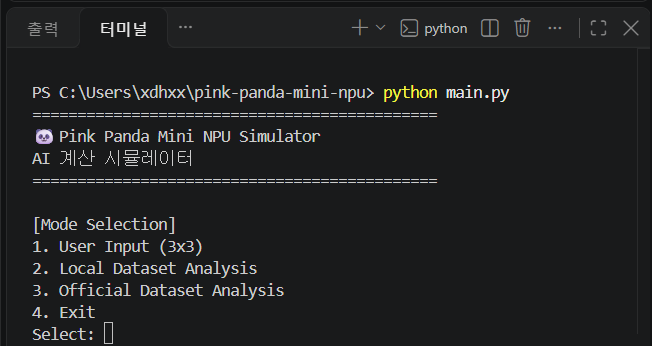
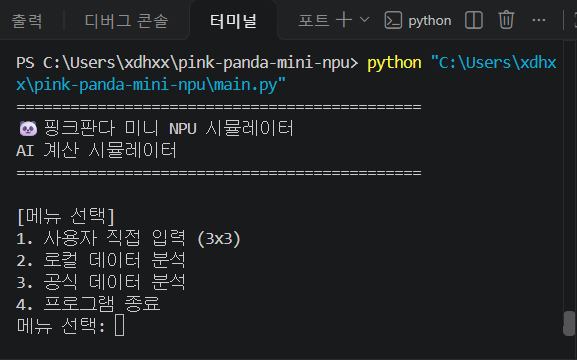
Localize simulator output and update screenshots

diff --git a/main.py b/main.py
@@ -262,7 +262,7 @@ def json_analysis_mode(filename="data.json"):
 
     accuracy = (pass_count / total_count * 100) if total_count > 0 else 0
     print("\n" + "=" * 45)
-    print("🐼 Pink Panda Mini NPU 최종 분석 결과")
+    print("🐼 핑크판다 미니 NPU 최종 분석 결과")
     print("=" * 45)
     print(f"전체 검사: {total_count}개")
     print(f"성공: {pass_count}개")
@@ -270,33 +270,33 @@ def json_analysis_mode(filename="data.json"):
     print(f"데이터 오류: {error_count}개")
     print(f"판정 정확도: {accuracy:.2f}%")
 
-    print("\n[Failure Report]")
+    print("\n[실패 리포트]")
     if not failed_cases:
-        print("No failed cases")
+        print("실패 사례 없음")
     else:
         for key, result, expected in failed_cases:
-            print(f"[FAIL] {key}")
+            print(f"[실패(FAIL)] {key}")
             if expected is None:
-                print(f"Data error: {result}")
+                print(f"데이터 오류: {result}")
             else:
-                print("Reason: Label mismatch")
-                print(f"Actual: {result}")
-                print(f"Expected: {expected}")
+                print("실패 원인: 정답 라벨 불일치")
+                print(f"실제 판정: {result}")
+                print(f"예상 정답: {expected}")
     print("=" * 45)
 def main():
     print("=" * 45)
-    print("\U0001F43C Pink Panda Mini NPU Simulator")
-    print("AI \uacc4\uc0b0 \uc2dc\ubbac\ub808\uc774\ud130")
+    print("🐼 핑크판다 미니 NPU 시뮬레이터")
+    print("AI 계산 시뮬레이터")
     print("=" * 45)
 
-    print("\n[Mode Selection]")
-    print("1. User Input (3x3)")
-    print("2. Local Dataset Analysis")
-    print("3. Official Dataset Analysis")
-    print("4. Exit")
+    print("\n[메뉴 선택]")
+    print("1. 사용자 직접 입력 (3x3)")
+    print("2. 로컬 데이터 분석")
+    print("3. 공식 데이터 분석")
+    print("4. 프로그램 종료")
 
-    choice = input("Select: ").strip()
-
+    choice = input("메뉴 선택: ").strip()
+    
     if choice == "1":
         user_input_mode()
     elif choice == "2":
